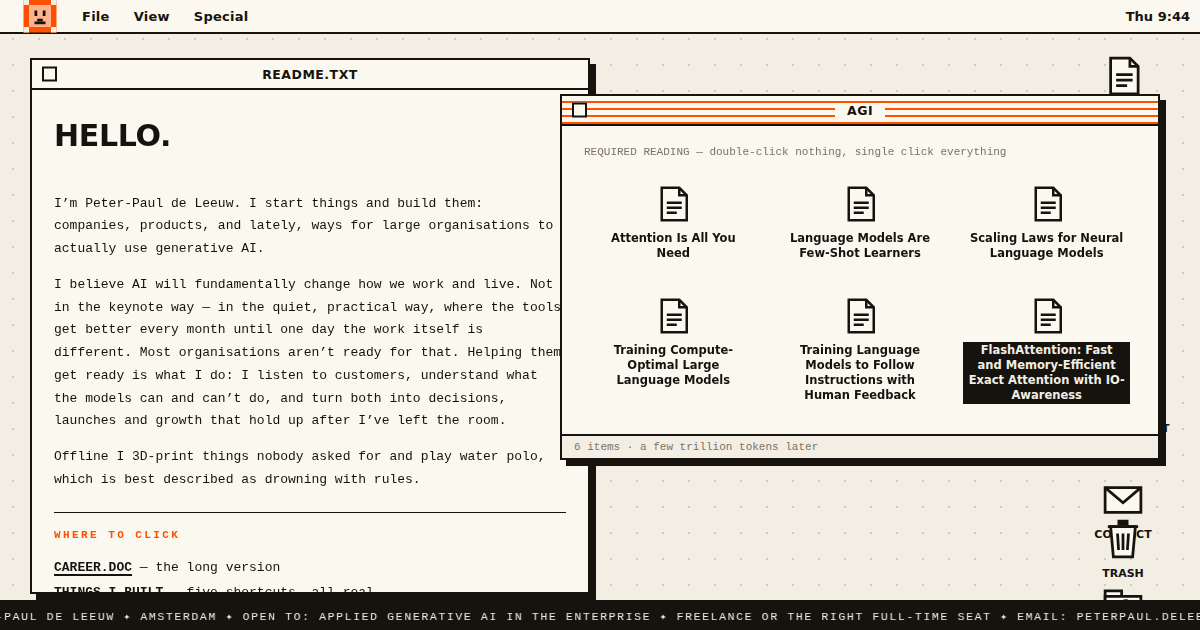
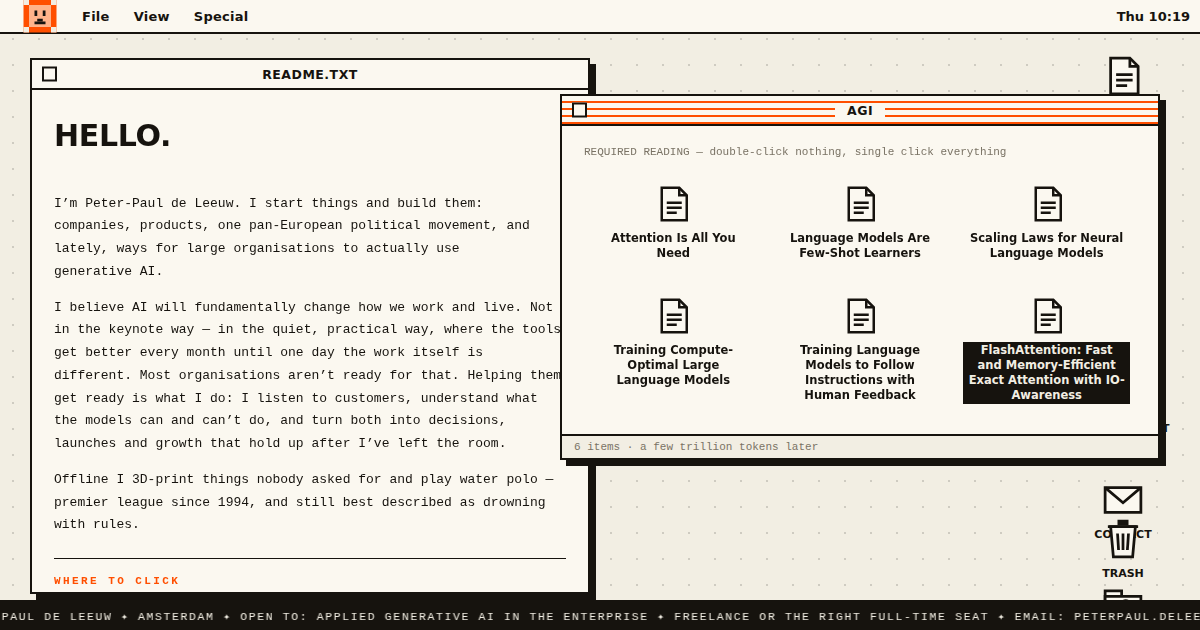
Update career content with facts from CV
Real dates and numbers throughout: Blue Health co-CEO (2025-),
Amberscript 2018-2024 with scale metrics, Volt Nederland
co-founder & co-president chapter, Accenture 2012-2017 client
work, OECD, education details, and water polo pedigree.

Claude-Session: https://claude.ai/code/session_01KgZQH4S6WCzJTUYKRHPtdJ

diff --git a/index.html b/index.html
@@ -170,9 +170,9 @@
       </header>
       <div class="window__body doc">
         <p class="doc__hello">HELLO.</p>
-        <p>I&rsquo;m Peter-Paul de Leeuw. I start things and build them: companies, products, and lately, ways for large organisations to actually use generative&nbsp;AI.</p>
+        <p>I&rsquo;m Peter-Paul de Leeuw. I start things and build them: companies, products, one pan-European political movement, and lately, ways for large organisations to actually use generative&nbsp;AI.</p>
         <p>I believe AI will fundamentally change how we work and live. Not in the keynote way &mdash; in the quiet, practical way, where the tools get better every month until one day the work itself is different. Most organisations aren&rsquo;t ready for that. Helping them get ready is what I do: I listen to customers, understand what the models can and can&rsquo;t do, and turn both into decisions, launches and growth that hold up after I&rsquo;ve left the room.</p>
-        <p>Offline I 3D-print things nobody asked for and play water polo, which is best described as drowning with rules.</p>
+        <p>Offline I 3D-print things nobody asked for and play water polo &mdash; premier league since 1994, and still best described as drowning with rules.</p>
         <div class="doc__nav">
           <p class="doc__navtitle">WHERE TO CLICK</p>
           <ul>
@@ -195,30 +195,34 @@
       <div class="window__body doc">
         <p class="doc__kicker">THE LONG VERSION</p>
 
-        <h3 class="doc__h">NOW</h3>
-        <p>After seven years of building Amberscript I handed over the keys in November&nbsp;2024. Since then I&rsquo;ve been doing the thing I kept telling our customers to do: taking generative AI seriously. I work with enterprises that want to get from &ldquo;we should do something with AI&rdquo; to shipped products and changed ways of working &mdash; and I&rsquo;m open to doing that inside a frontier lab.</p>
+        <h3 class="doc__h">2025&ndash;NOW &middot; BLUE HEALTH &mdash; CO-CEO</h3>
+        <p>After handing over Amberscript I co-founded Blue Health: preventive healthcare in Amsterdam &mdash; a 360&deg; health check in one hour, from ECG and ultrasound to bloodwork, with a doctor in the room. First year: &euro;1M raised, a team of eight, &euro;200K revenue, and our own hardware and software shipped.</p>
+        <p>The thread through everything I do is generative AI: getting it out of the demos and into daily work. That&rsquo;s where I&rsquo;m pointing next &mdash; working with enterprises that want it applied properly, or inside a frontier lab.</p>
 
-        <h3 class="doc__h">2017&ndash;2024 &middot; AMBERSCRIPT &mdash; CO-FOUNDER &amp; CEO</h3>
-        <p>During my MBA I fell for speech recognition: the models were getting good, and few people in Europe were turning them into products you could actually use. So we did. Amberscript turns audio and video into text and subtitles &mdash; AI first, human editors where it matters. We grew from two founders and a microphone into an international team serving universities, broadcasters, governments and enterprises across Europe. Seven years of hiring, shipping, pricing, breaking, fixing and scaling. The best education I ever paid for with sleep.</p>
+        <h3 class="doc__h">2018&ndash;2024 &middot; AMBERSCRIPT &mdash; FOUNDER &amp; CEO</h3>
+        <p>During my MBA I fell for speech recognition: the models were getting good, and few people in Europe were turning them into products you could actually use. So we did. Amberscript turns audio and video into text and subtitles &mdash; proprietary AI models built by our own team of 20 engineers, human editors where it matters.</p>
+        <p>From zero to &euro;10M+ revenue in five years, profitably. A team of 100+ across the Netherlands and Germany, &euro;15M raised from angels and VCs, two acquisitions, and a spot in the Deloitte top&nbsp;10 fastest-growing companies in the Netherlands. Seven years of hiring, shipping, pricing, breaking, fixing and scaling &mdash; the best education I ever paid for with sleep. I handed over the keys in November&nbsp;2024.</p>
 
-        <h3 class="doc__h">ALSO BUILT ALONG THE WAY</h3>
-        <p><strong>Amberscript Notes</strong> &mdash; an AI meeting assistant that records, transcribes and summarises your meetings.<br>
-        <strong>Blue Health</strong> &mdash; a 360&deg; preventive health check in Amsterdam: one hour, ECG to bloodwork, doctor included.<br>
-        <strong>Heritage View Capital</strong> &mdash; a fund with one job: buy one great Dutch company and run it well for the long term.</p>
+        <h3 class="doc__h">2017&ndash;2022 &middot; VOLT NEDERLAND &mdash; CO-FOUNDER &amp; CO-PRESIDENT</h3>
+        <p>Evenings and weekends, in parallel: co-founded the Dutch chapter of the pan-European political movement. We started with three people and grew it to 10.000+ members &mdash; structured the organisation, ran the election campaigns, built the candidate lists. Volt now holds seats in both the Dutch and the European parliament.</p>
 
-        <h3 class="doc__h">2011&ndash;2016 &middot; ACCENTURE &mdash; STRATEGY CONSULTANT</h3>
-        <p>Five years advising large corporations through big technology changes. This is where I learned structured thinking &mdash; and that slides don&rsquo;t ship.</p>
+        <h3 class="doc__h">2012&ndash;2017 &middot; ACCENTURE STRATEGY &mdash; ANALYST &rarr; CONSULTANT</h3>
+        <p>Five years advising large corporations across the Netherlands, Denmark, China and the USA: M&amp;A pre-deal work at Philips, integrating a &euro;2B company post-merger at ASML, growth strategies for Douwe Egberts and China Eastern, 64 digital initiatives at KLM&ndash;Air France, and founding Shell&rsquo;s 3D-printing practice &mdash; the moment a hobby quietly became billable. Accenture taught me structured thinking, and that slides don&rsquo;t ship.</p>
+
+        <h3 class="doc__h">2008&ndash;2009 &middot; OECD &mdash; INTERNATIONAL FUTURES PROGRAMME</h3>
+        <p>In Paris, co-wrote reports for 35 governments about what the world would look like in 2030. Forecasting the future turned out to be habit-forming.</p>
 
         <h3 class="doc__h">EDUCATION</h3>
-        <p>INSEAD &mdash; MBA (2016&ndash;2017)<br>
-        Erasmus University Rotterdam &mdash; MSc (2009&ndash;2011)<br>
-        Utrecht University &mdash; BSc (2005&ndash;2009)</p>
+        <p>INSEAD &mdash; MBA (2016&ndash;2017), Singapore &amp; France. GMAT 750, president of the Entrepreneurship Club.<br>
+        Erasmus University Rotterdam &mdash; MSc Economics &amp; Business (2009&ndash;2011), cum laude, top 5%.<br>
+        Utrecht University &mdash; BSc Economics (2005&ndash;2009).</p>
 
         <h3 class="doc__h">SYSTEM SPECIFICATIONS</h3>
-        <pre class="doc__spec">LOCATION ..... Amsterdam, NL
-LANGUAGES .... Dutch, English
-INTERESTS .... how organisations actually adopt AI
-HOBBIES ...... 3D printing, water polo</pre>
+        <pre class="doc__spec">BUILT ........ 1986, NL (same era as the hardware above)
+BASE ......... Amsterdam
+LANGUAGES .... Dutch, English, French (basic), German (basic)
+WATER POLO ... premier league since 1994; trained for Beijing 2008
+ALSO RUNS .... 3D printers, DJ sets (folk rock to deep house), PADI dives</pre>
       </div>
     </section>
 
@@ -274,7 +278,7 @@ HOBBIES ...... 3D printing, water polo</pre>
           <a class="filerow" role="listitem" href="https://www.amberscript.com" target="_blank" rel="noopener">
             <span class="filerow__name"><svg class="pix" aria-hidden="true"><use href="#i-doc"/></svg>AMBERSCRIPT.HTML</span>
             <span class="filerow__kind">COMPANY</span>
-            <span class="filerow__notes">AI speech-to-text: turns audio &amp; video into text and subtitles. Co-founded it in 2017, led it for seven years.</span>
+            <span class="filerow__notes">AI speech-to-text scale-up: audio &amp; video into text and subtitles. Founded 2018, grew to 100+ people and &euro;10M+ revenue, profitably.</span>
           </a>
           <a class="filerow" role="listitem" href="https://notes.amberscript.com/" target="_blank" rel="noopener">
             <span class="filerow__name"><svg class="pix" aria-hidden="true"><use href="#i-doc"/></svg>NOTES.HTML</span>
@@ -284,12 +288,12 @@ HOBBIES ...... 3D printing, water polo</pre>
           <a class="filerow" role="listitem" href="https://voltnederland.org/" target="_blank" rel="noopener">
             <span class="filerow__name"><svg class="pix" aria-hidden="true"><use href="#i-doc"/></svg>VOLT.HTML</span>
             <span class="filerow__kind">MOVEMENT</span>
-            <span class="filerow__notes">Volt Nederland &mdash; the Dutch chapter of the pan-European political movement.</span>
+            <span class="filerow__notes">Co-founded the Dutch chapter of the pan-European movement: from 3 people to 10.000+ members and seats in national and European parliament.</span>
           </a>
           <a class="filerow" role="listitem" href="https://bluehealth.co/" target="_blank" rel="noopener">
             <span class="filerow__name"><svg class="pix" aria-hidden="true"><use href="#i-doc"/></svg>BLUEHEALTH.HTML</span>
             <span class="filerow__kind">COMPANY</span>
-            <span class="filerow__notes">360&deg; preventive health check in Amsterdam: one hour, ECG to bloodwork, results with a doctor the same visit.</span>
+            <span class="filerow__notes">360&deg; preventive health check in Amsterdam: one hour, ECG to bloodwork, doctor included. Currently co-CEO.</span>
           </a>
           <a class="filerow" role="listitem" href="https://www.heritageviewcapital.com/" target="_blank" rel="noopener">
             <span class="filerow__name"><svg class="pix" aria-hidden="true"><use href="#i-doc"/></svg>HERITAGEVIEW.HTML</span>
@@ -309,8 +313,9 @@ HOBBIES ...... 3D printing, water polo</pre>
       </header>
       <div class="window__body doc">
         <pre class="doc__spec">STATUS ... open to conversations
-NOW ...... independent &mdash; generative AI in the enterprise
-NEXT ..... the right seat at a frontier AI lab</pre>
+TODAY .... co-CEO Blue Health
+NEXT ..... generative AI in the enterprise &mdash; freelance,
+           or the right seat at a frontier AI lab</pre>
         <ul class="contactlist">
           <li><span class="contactlist__k">EMAIL</span><a href="mailto:peterpaul.deleeuw@gmail.com">peterpaul.deleeuw@gmail.com</a></li>
           <li><span class="contactlist__k">LINKEDIN</span><a href="https://www.linkedin.com/in/peterpaul-deleeuw/" target="_blank" rel="noopener">/in/peterpaul-deleeuw</a></li>
